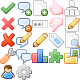
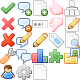
Added "cut" toolbar button.

Changed region(s): [[0.4, 0.8, 0.6, 1.0]]

diff --git a/_admin/css/style.css b/_admin/css/style.css
@@ -790,7 +790,7 @@ textarea,
 		background: none;
 		}
 
-.toolbar .new { background-position: -88px -16px; }
+.toolbar .cut { background-position: -88px -16px; }
 .toolbar .b { background-position: 2px -52px; }
 .toolbar .i { background-position: -16px -52px; }
 .toolbar .strike { background-position: -34px -52px; }
@@ -1065,7 +1065,7 @@ form center {
 	}
 .jstree a .jstree-icon { background-position: -55px -19px; }
 .jstree-open > a > .jstree-icon { background-position: -73px -19px; }
-.jstree-leaf > a > .jstree-icon { background: url(../i/toolbar.png) -91px -18px; }
+.jstree-leaf > a > .jstree-icon { background: url(../i/icons.png) -33px -64px; }
 
 #vakata-dragged {
 	font: 0.917em "Segoe UI", "Lucida Grande", "Lucida Sans Unicode", "Droid Sans", Tahoma, sans-serif;

diff --git a/_admin/site_lib.php b/_admin/site_lib.php
@@ -297,6 +297,10 @@ function s2_toolbar ()
 	<img class="sup" src="i/1.gif" alt="<?php echo $lang_admin['SUP']; ?>" onclick="return TagSelection('sup');" />
 	<img class="sub" src="i/1.gif" alt="<?php echo $lang_admin['SUB']; ?>" onclick="return TagSelection('sub');" />
 	<img class="separator" src="i/1.gif" alt="" />
+	<img class="nobr" src="i/1.gif" alt="<?php echo $lang_admin['NOBR']; ?>" onclick="return TagSelection('nobr');" />
+	<img class="separator" src="i/1.gif" alt="" />
+	<img class="cut" src="i/1.gif" alt="<?php echo $lang_admin['Cut']; ?>" onclick="return InsertTag('<cut>', '');" />
+	<img class="separator" src="i/1.gif" alt="" />
 	<img class="a" src="i/1.gif" alt="<?php echo $lang_admin['Link']; ?>" onclick="return InsertTag('<a href=&quot;&quot;>', '</a>');" />
 	<img class="img" src="i/1.gif" alt="<?php echo $lang_admin['Image']; ?>" onclick="return GetImage();" />
 	<img class="separator" src="i/1.gif" alt="" />
@@ -317,8 +321,6 @@ function s2_toolbar ()
 	<img class="separator" src="i/1.gif" alt="" />
 	<img class="pre" src="i/1.gif" alt="<?php echo $lang_admin['PRE']; ?>" onclick="return TagSelection('pre');" />
 	<img class="code" src="i/1.gif" alt="<?php echo $lang_admin['CODE']; ?>" onclick="return TagSelection('code');" />
-	<img class="separator" src="i/1.gif" alt="" />
-	<img class="nobr" src="i/1.gif" alt="<?php echo $lang_admin['NOBR']; ?>" onclick="return TagSelection('nobr');" />
 	<img class="separator" src="i/1.gif" alt="" />
 	<img class="parag" src="i/1.gif" alt="<?php echo $lang_admin['Paragraphs info']; ?>" onclick="return Paragraph();" />
 </div>

diff --git a/_lang/Russian/admin.php b/_lang/Russian/admin.php
@@ -94,6 +94,8 @@ $lang_admin = array(
 
 'NOBR'						=> 'Запретить перенос строк',
 
+'Cut'						=> 'Обозначить выдержку тегом <cut>',
+
 'Input time format'			=> '[hour]:[minute], [day].[month].[year]', // Determines order of the input fields
 
 // Preview tab

diff --git a/_lang/English/admin.php b/_lang/English/admin.php
@@ -94,6 +94,8 @@ $lang_admin = array(
 
 'NOBR'						=> 'Disable line breaking',
 
+'Cut'						=> 'Insert <cut> tag to show excerpt',
+
 'Input time format'			=> '[hour]:[minute], [month]/[day]/[year]', // Determines order of the input fields
 
 // Preview tab
